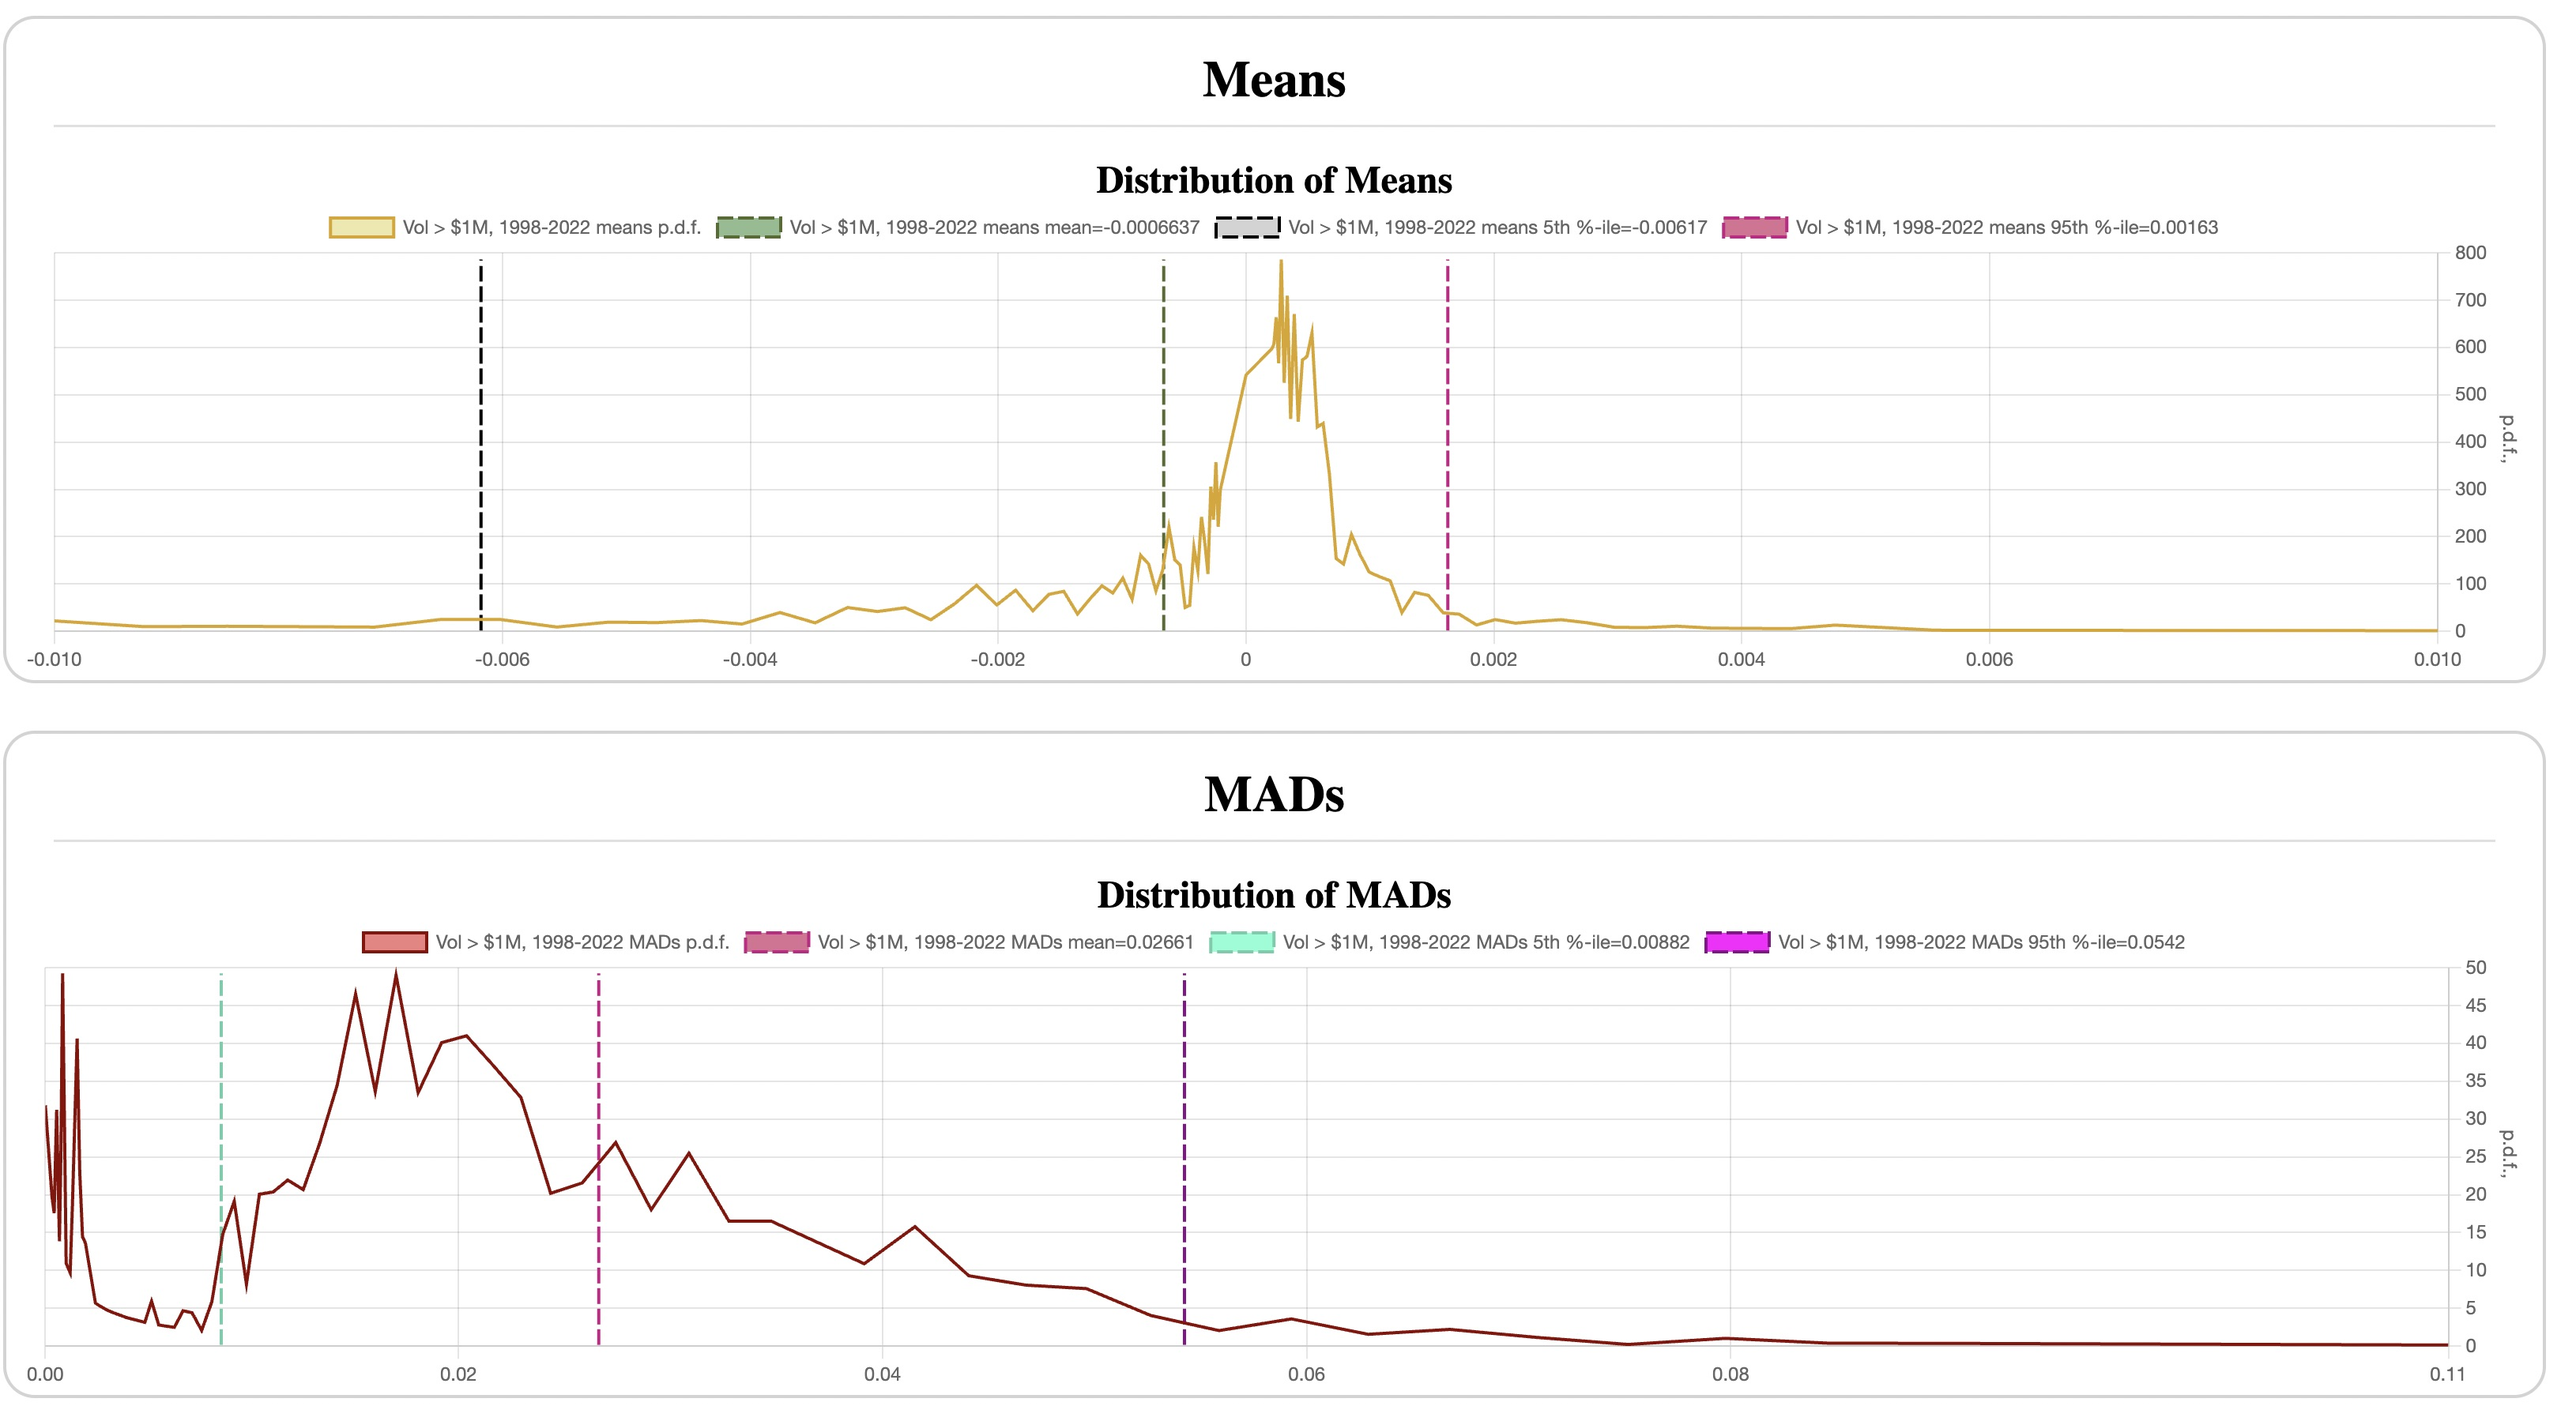
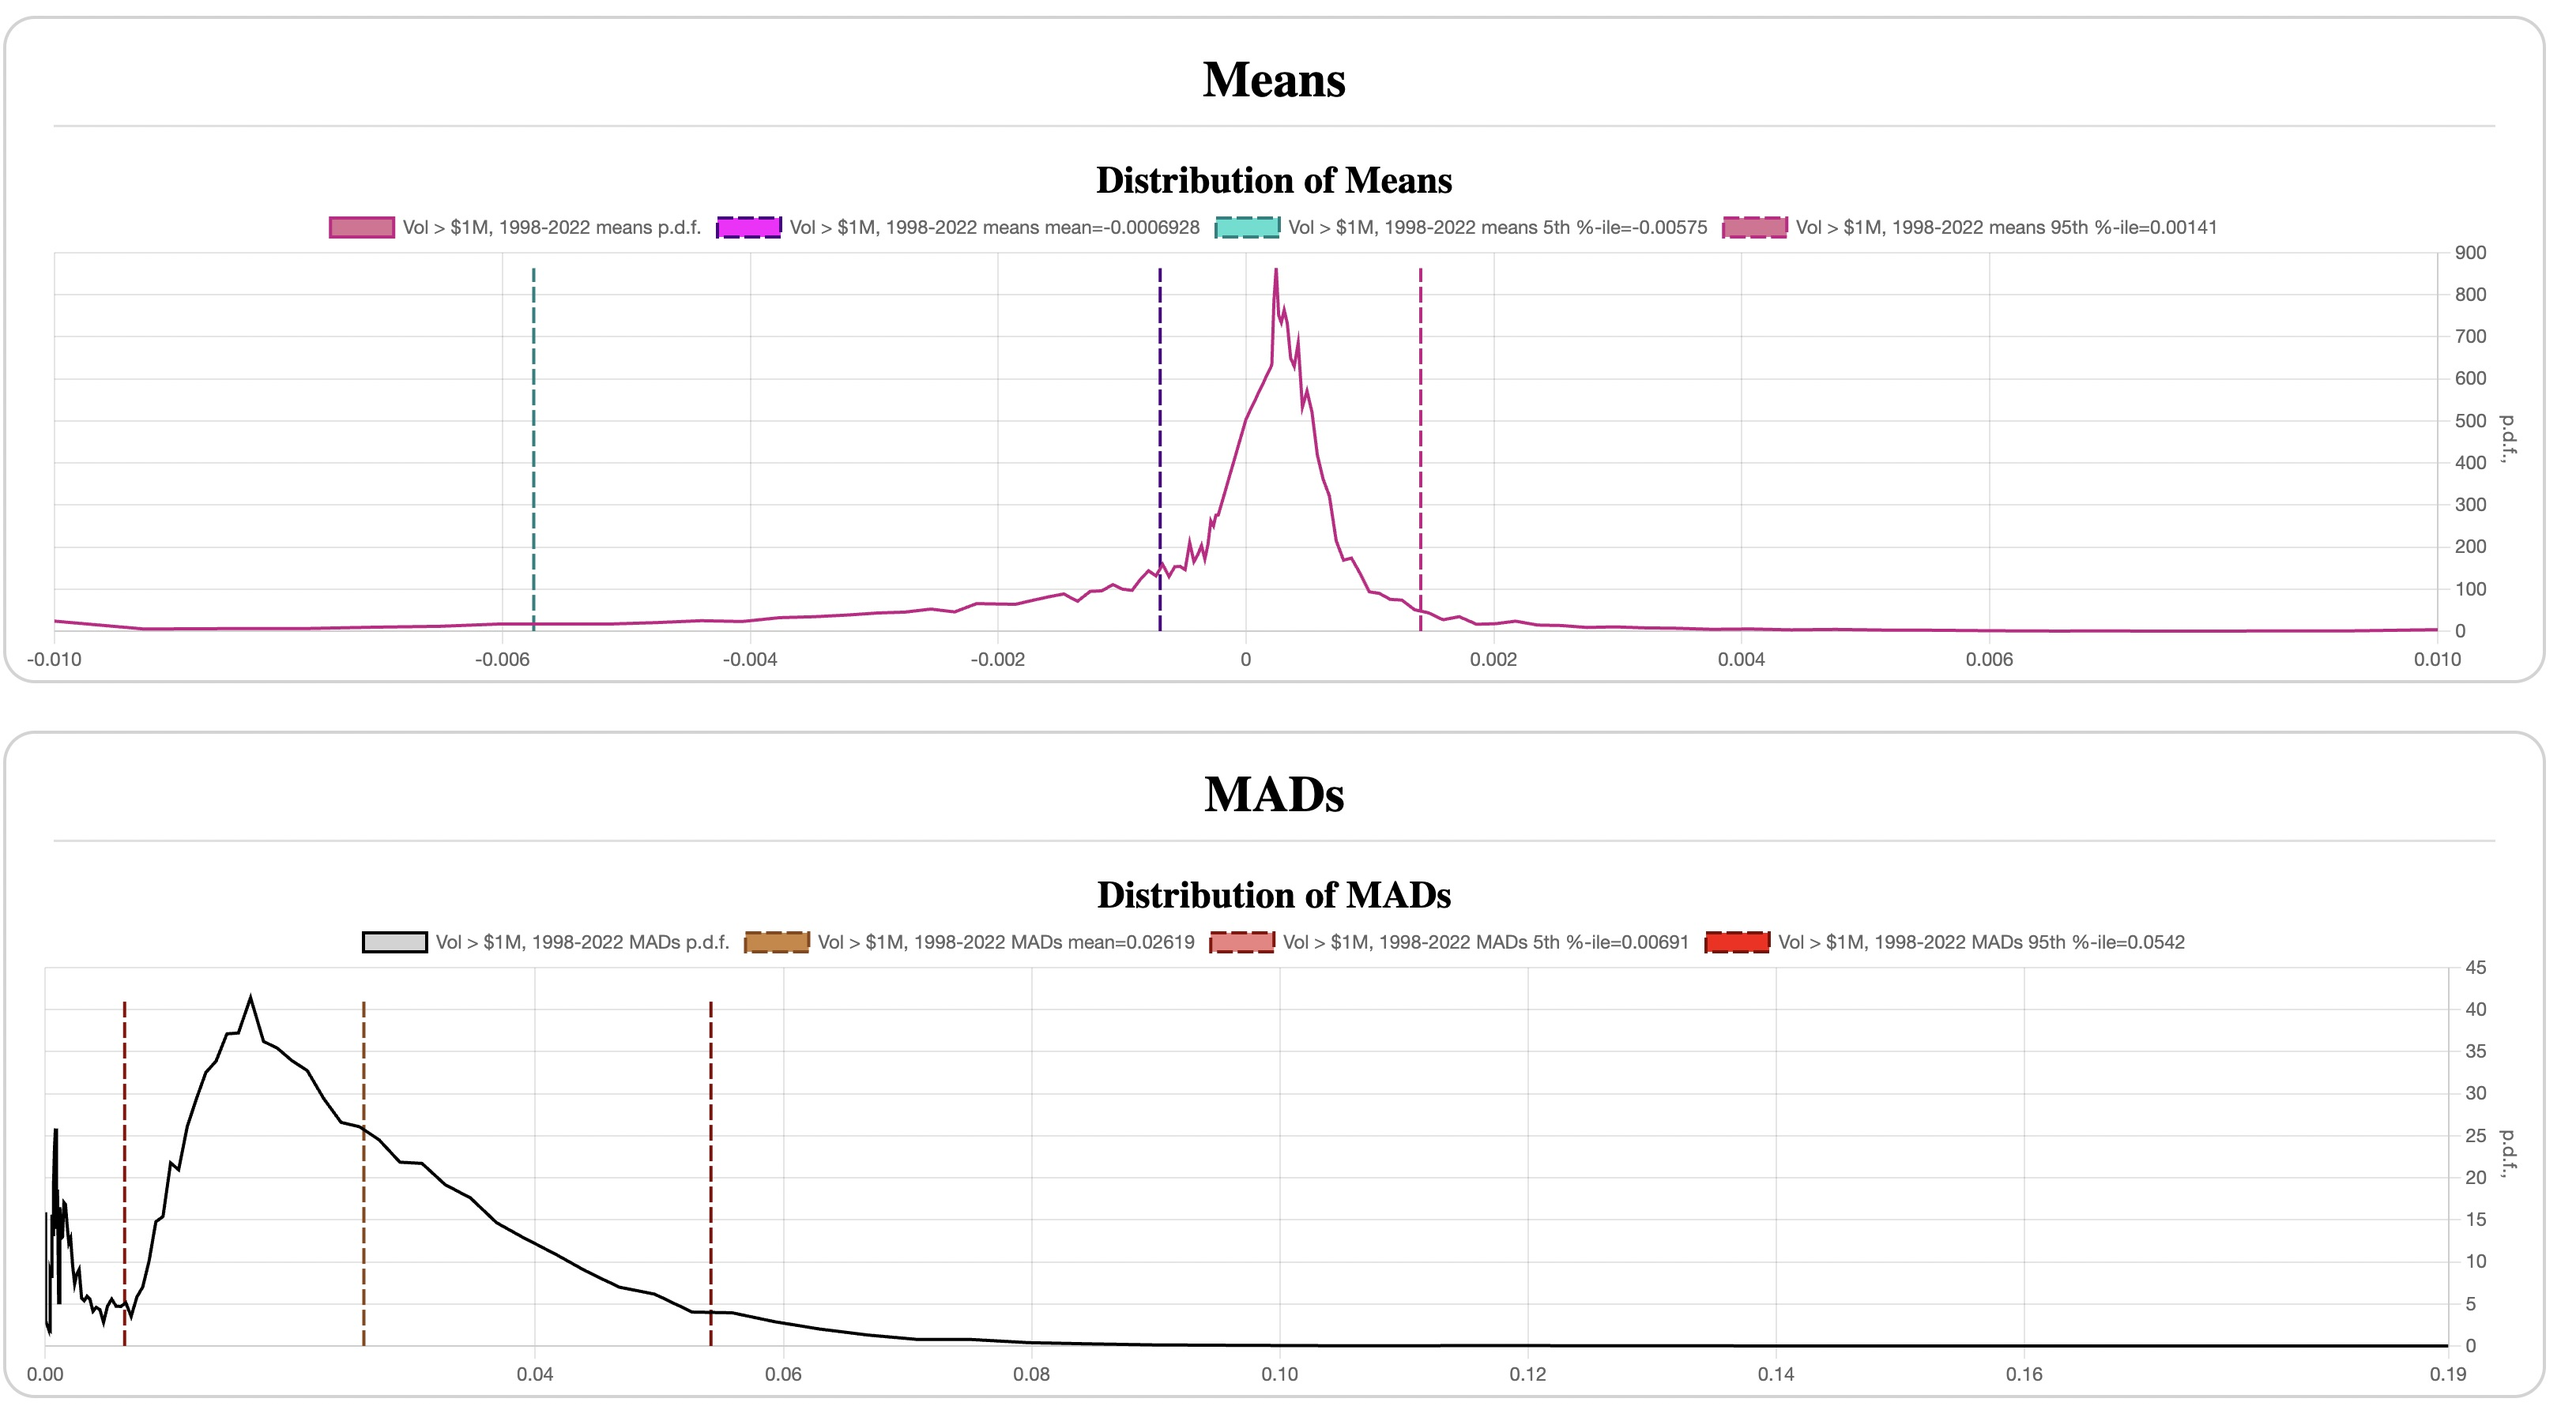
Fixed a bug; start self-review

diff --git a/distribution/distribution.go b/distribution/distribution.go
@@ -276,8 +276,8 @@ func (d *Distribution) Run(ctx context.Context, cfg config.ExperimentConfig) err
 
 type jobResult struct {
 	Histogram  *stats.Histogram
-	Mean       float64
-	MAD        float64
+	Means      []float64
+	MADs       []float64
 	NumTickers int
 	Err        error
 }
@@ -293,8 +293,8 @@ func (d *Distribution) processTicker(ticker string, res *jobResult) error {
 	}
 	ts := stats.NewTimeseries().FromPrices(rows, stats.PriceFullyAdjusted)
 	sample := ts.LogProfits()
-	res.Mean = sample.Mean()
-	res.MAD = sample.MAD()
+	res.Means = append(res.Means, sample.Mean())
+	res.MADs = append(res.MADs, sample.MAD())
 	if res.Histogram != nil {
 		if d.config.LogProfits.Normalize && sample.MAD() != 0.0 {
 			sample, err = sample.Normalize()
@@ -359,8 +359,8 @@ func (d *Distribution) processTickers(tickers []string) error {
 		if d.histogram != nil {
 			d.histogram.AddHistogram(jr.Histogram)
 		}
-		means = append(means, jr.Mean)
-		mads = append(mads, jr.MAD)
+		means = append(means, jr.Means...)
+		mads = append(mads, jr.MADs...)
 		d.numTickers += jr.NumTickers
 	}
 	if d.config.Means != nil {

diff --git a/distribution/README.md b/distribution/README.md
@@ -188,12 +188,12 @@ In the [previous section](../logprofits) we casually mentioned that stocks
 fluctuate daily roughly by 1% of their price. Is this really true?
 
 Let's plot the distribution of means and MADs of daily log-profits, one per each
-stock, for all the liquid stocks ([config](means-mads.json)):
+stock, for all the liquid stocks ([config](assets/means-mads.json)):
 
-![Means and MADs](means-mads.jpeg)
+![Means and MADs](assets/means-mads.jpeg)
 
-The average MAD is `0.02594` (that's 2.6%, not 1%), and the average daily mean
-is `-0.0006853`, or `-0.07%` - an average liquid stock is a loser! Note to self:
+The average MAD is `0.02619` (that's 2.6%, not 1%), and the average daily mean
+is `-0.0006928`, or `-0.07%` - an average liquid stock is a loser! Note to self:
 don't invest in all the liquid stocks in the market equally, as you'd lose about
 16% annually.
 
@@ -202,13 +202,17 @@ fluctuate roughly by 1%? As it turns out, this is the behavor of the _indexes_,
 such as S&P500 or Nasdaq Composite 100. Such indexes are composed of stocks with
 the highest market caps, usually weighted by the market cap itself. Since most
 of market in terms of market cap is dominated by relatively few very large
-stocks, we may reasonably expect that the most traded stocks indeed fluctuate
-less and grow a bit better than the average liquid stock.
+stocks, we may reasonably expect that the largest stocks indeed fluctuate less
+and grow a bit better than the average liquid stock.
 
-The dataset I have does not provide daily prices for such indexes, but later in
-the study I will attempt to construct my own index based on the data I have,
-compare it with the standard indexes, and compute the average growth and
-volatility for it.
+And indeed, GOOG (which somewhat resembles NASDAQ Composite 100) has
+`mean=0.06808%` and `mad=1.164%`, while FAANG stocks (META, AAPL, AMZN, NFLX,
+GOOG) jointly have the daily mean of `0.08894%` and MAD `1.814%`.
+
+The dataset I have does not provide daily prices for indexes, but later in the
+study I will attempt to construct my own indexes based on the data I have,
+compare it with the standard indexes, and compute the average growth, volatility
+and other interesting metrics for them.
 
 ## What about Normal?
 
